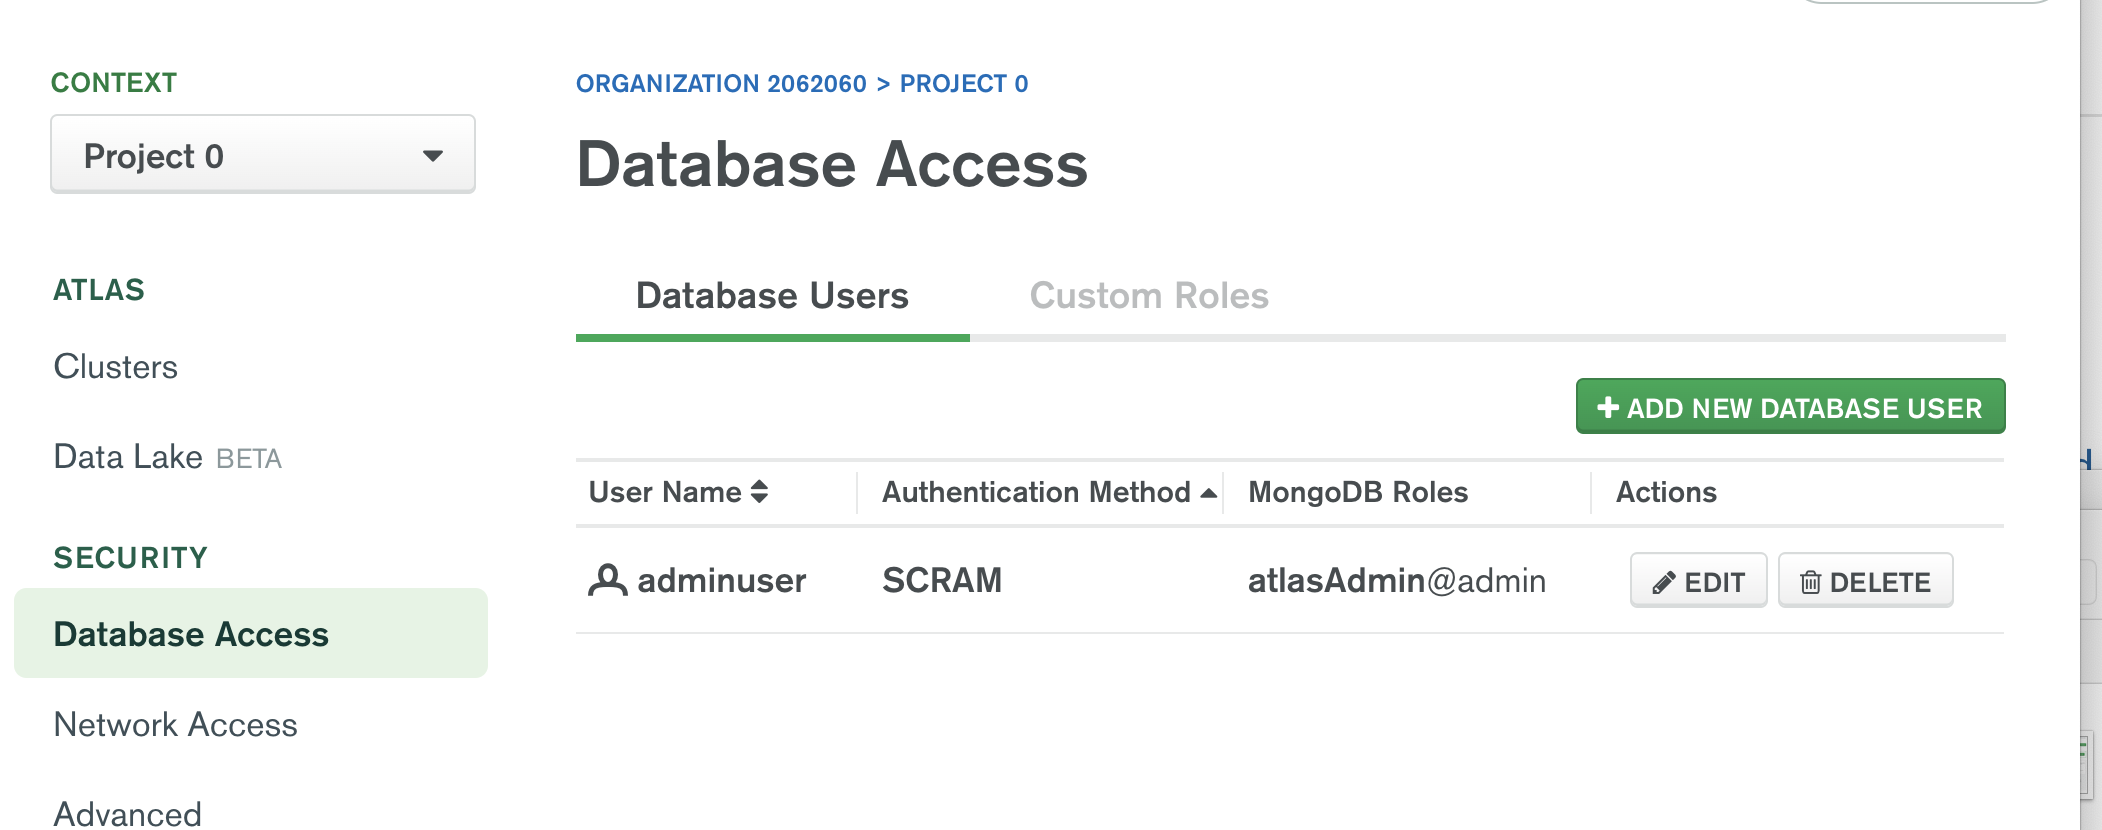
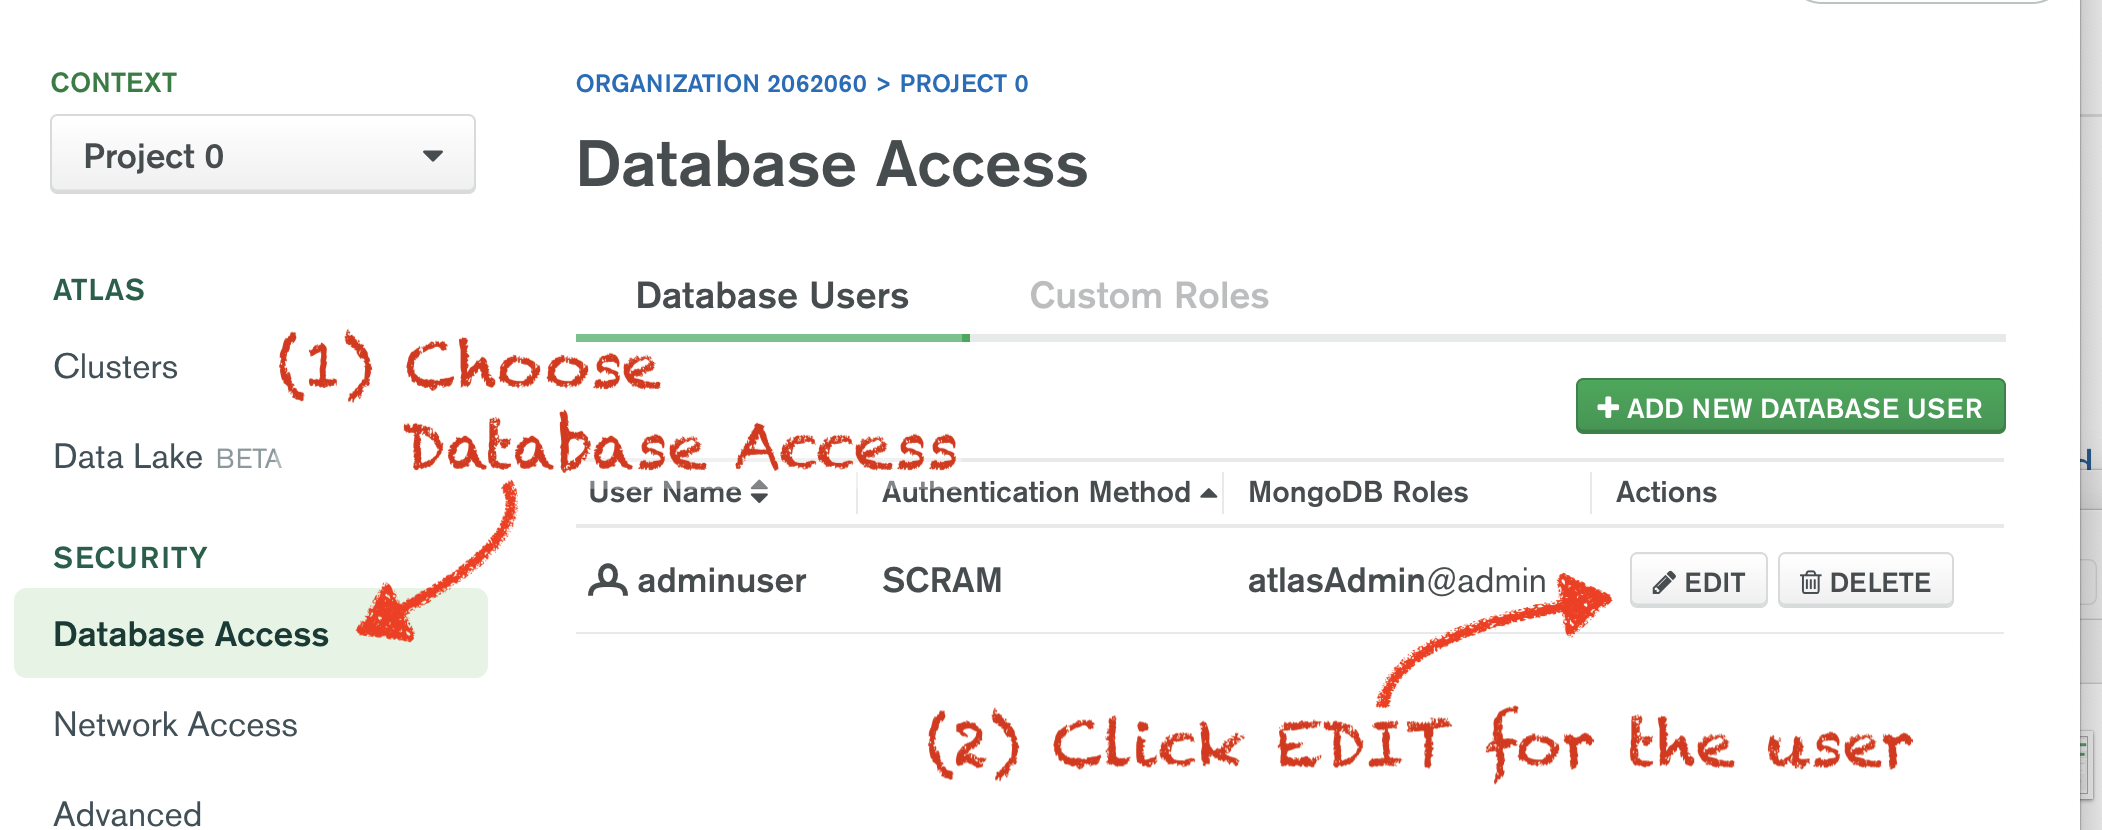
pc - update annotations and explanations for mongodb

diff --git a/_topics/mongodb_cloud_atlas_setup.md b/_topics/mongodb_cloud_atlas_setup.md
@@ -189,12 +189,24 @@ The instructions in this article cover how to set up a new free account, up to t
 
 # Step 10: Obtaining (changing) the DB User Password
 
-  ![15-database-access-menu-item.png](15-database-access-menu-item-50.png)
+  In this step, we replace the placeholder `<password>` with a correct
+  password for the user (e.g. `adminuser`).  It is not possible to look up the current
+  password, but it is possible to generate a new one.
+
+  To do this, select "Database Access" from the side menu, and then the "Edit" for
+  the appropriate user, as shown here:
 
   ![16-database-access-screen.png](16-database-access-screen-50.png)
 
+  This brings you to the following page, where you can click to edit the password:
+
   ![17-edit-user.png](17-edit-user-50.png)
 
+  On this page, click to generate a new password, **and copy it before you close the page**.
+
+  You may want to keep the page open until the new password is safely stored in the
+  configuration file where you need to put it.
+  
   ![18-change-db-user-password.png](18-change-db-user-password-50.png)
 
   ![20-copy-password.png](20-copy-password-50.png)
